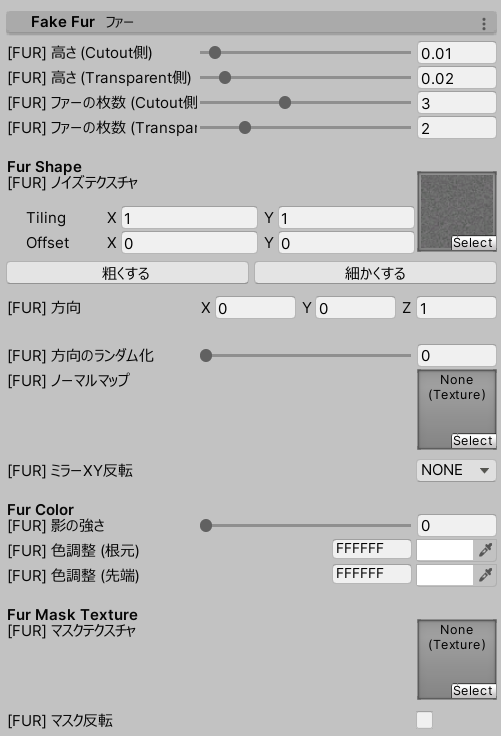
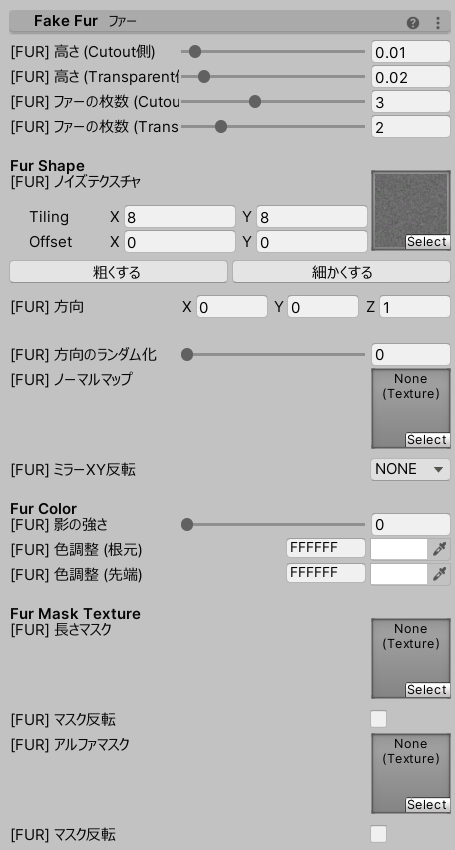
UnlitWF 2.1.0 を追加

diff --git a/docs/unlitwf/Manual-FakeFur.md b/docs/unlitwf/Manual-FakeFur.md
@@ -36,8 +36,12 @@ UnlitWF/FakeFur は、UnToon をベースにしたファーシェーダです。
 - Fur Color
   - `影の強さ` `色調整(根元)` `色調整(先端)` にてファーの色を変化させることができます。
 - Fur Mask Texture
-  - `マスクテクスチャ` にて、ファーの高さを制御することができます。黒が高さ0、白が高さ100%です。
-  - ファー部分とファー以外の部分は、マスクテクスチャで塗り分けるのではなくマテリアルを分割することを推奨します。FakeFurシェーダが描画する頂点数をなるべく少なくしてください。
+  - ファー範囲の制御のため `長さマスク` と `アルファマスク` の2つを使用することができます。
+  - `長さマスク` はファー長さに直結するマスクテクスチャです。黒が長さ0%、白が長さ100%として機能します。
+    - 長さマスクで制御するほうが軽量になるよう実装されています。
+  - `アルファマスク` はファーの透明度に直結するマスクテクスチャです。黒が完全透明、白が不透明度100%として機能します。
+    - アルファマスクのほうが小さな領域を制御できますが、長さマスクよりも高負荷です。
+  - マスクで制御するよりもマテリアルを分割したほうが軽量になります。ファーとそれ以外が混在したメッシュの場合はマテリアル分割を推奨します。
 
 ----
 

diff --git a/docs/unlitwf/CHANGELOG.md b/docs/unlitwf/CHANGELOG.md
@@ -5,6 +5,25 @@ toc_max_heading_level: 2
 
 # Change Log
 
+## 2024-06-12 (2.1.0)
+https://github.com/whiteflare/Unlit_WF_ShaderSuite/releases/tag/UnlitWF_Shader_20240612
+
+### Changed
+- Shader
+  - Customの中に入れていたアウトライン付きPowerCapを `UnToon_PowerCap_Outline` として整理しました。
+  - FakeFur のマスクを `長さマスク` と `アルファマスク` に分割しました。
+- GUI
+  - Custom Shader Variants の表示とシェーダ切り替えメニューを新しくしました。
+  - ヘルプページを開くボタンを追加しました。
+  - matcapを入れ替えるメニューを追加しました。
+
+### Fixed
+- GUI
+  - Transparent系列のUnToonからUnityビルトインのUnlitに切り替えた後に描画が行われない問題を修正しました。
+  - プロパティをリセットしたときにデフォルトテクスチャが割り当てられない問題を修正しました。
+
+----
+
 ## 2024-05-25 (2.0.0)
 https://github.com/whiteflare/Unlit_WF_ShaderSuite/releases/tag/UnlitWF_Shader_20240525
 
